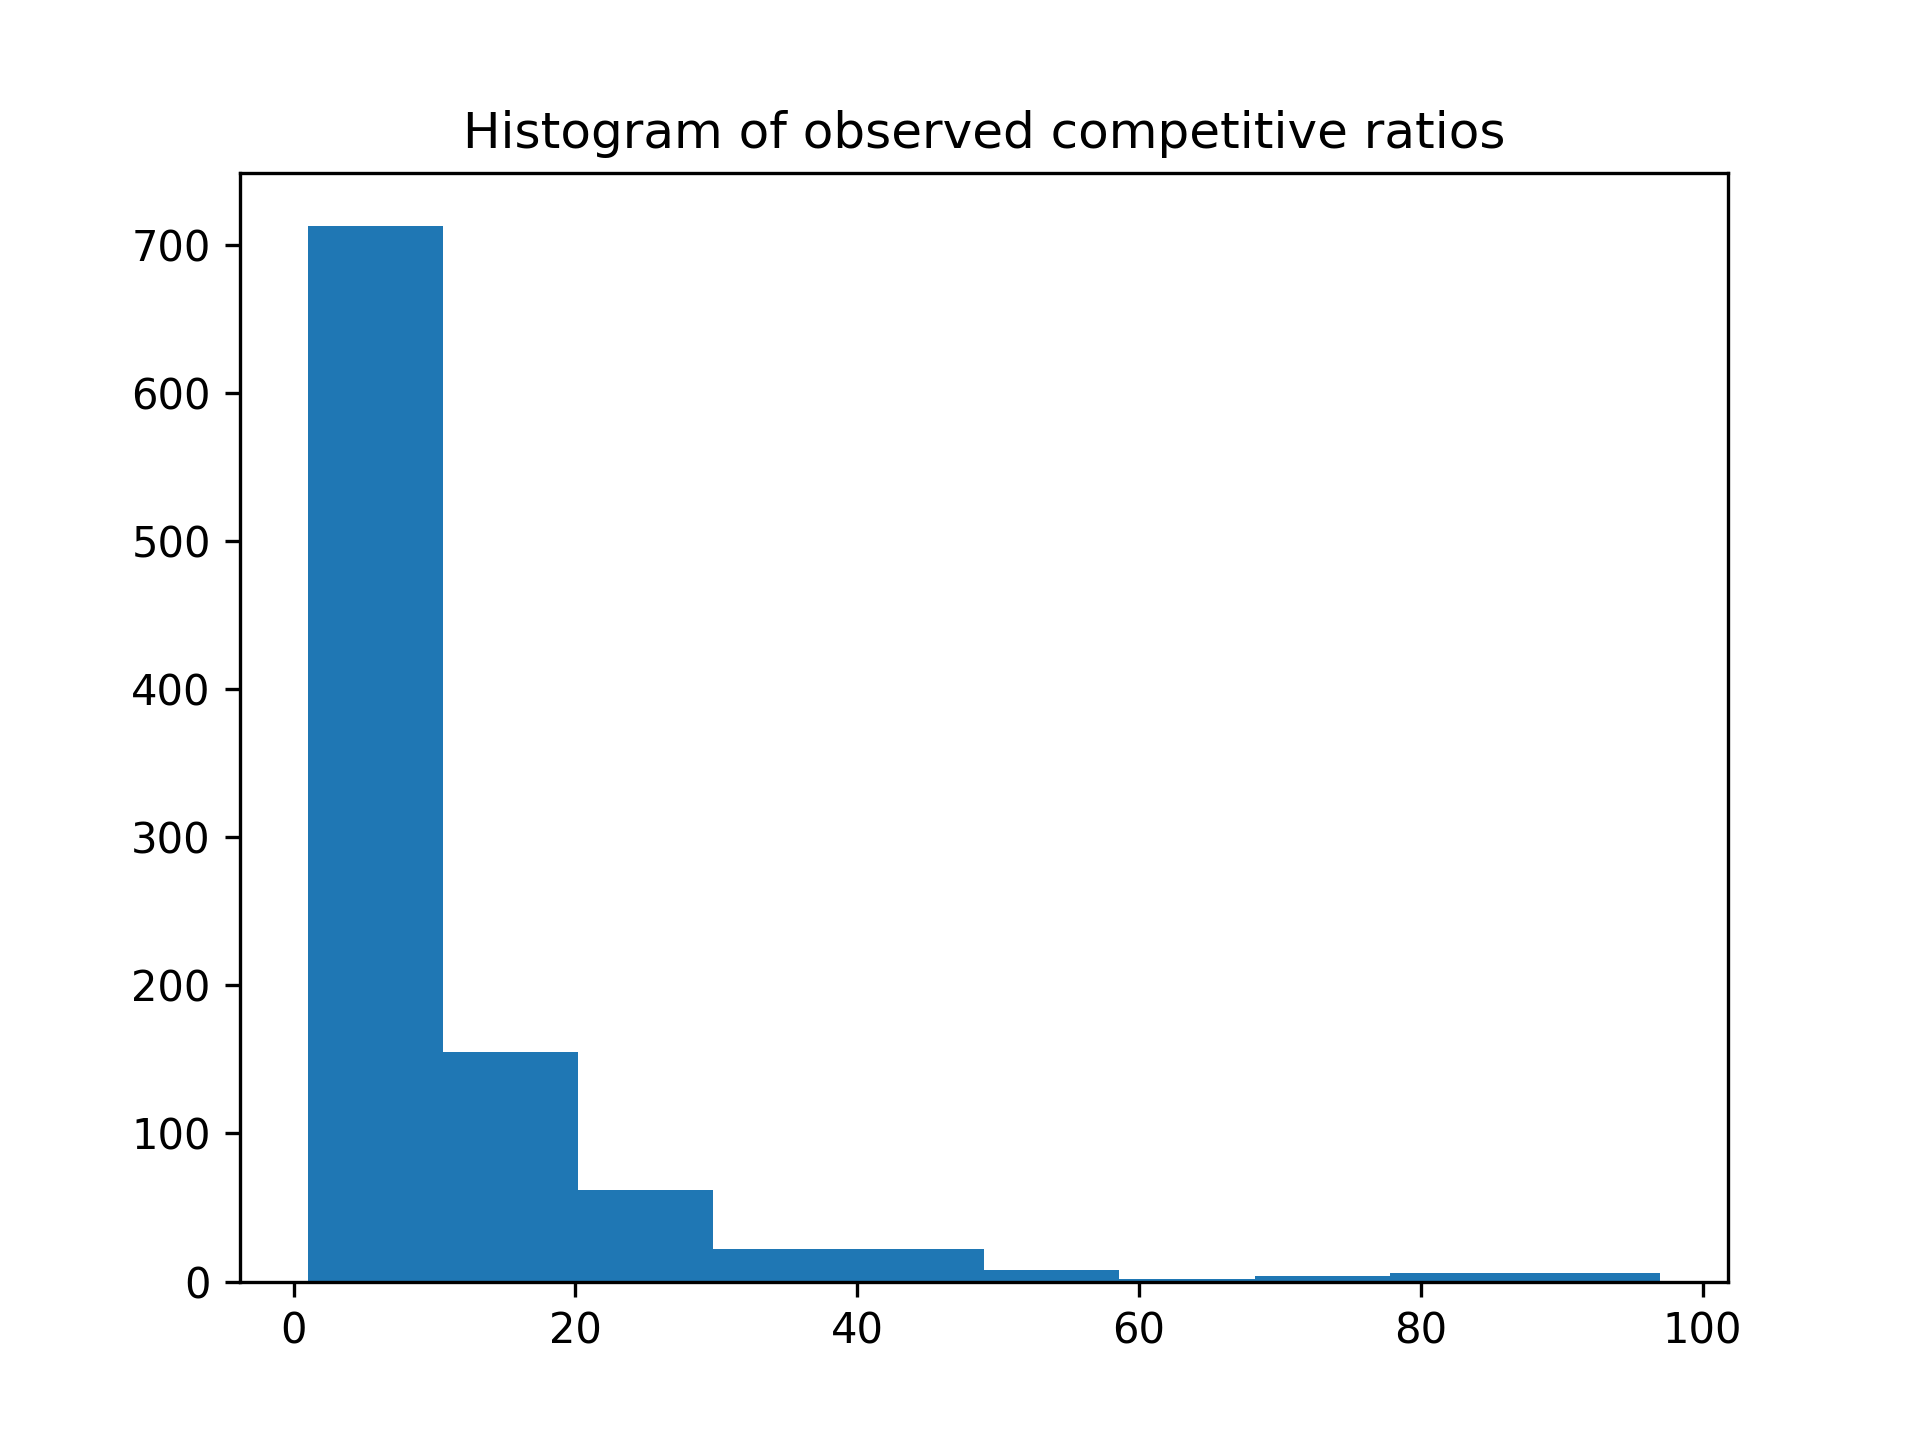
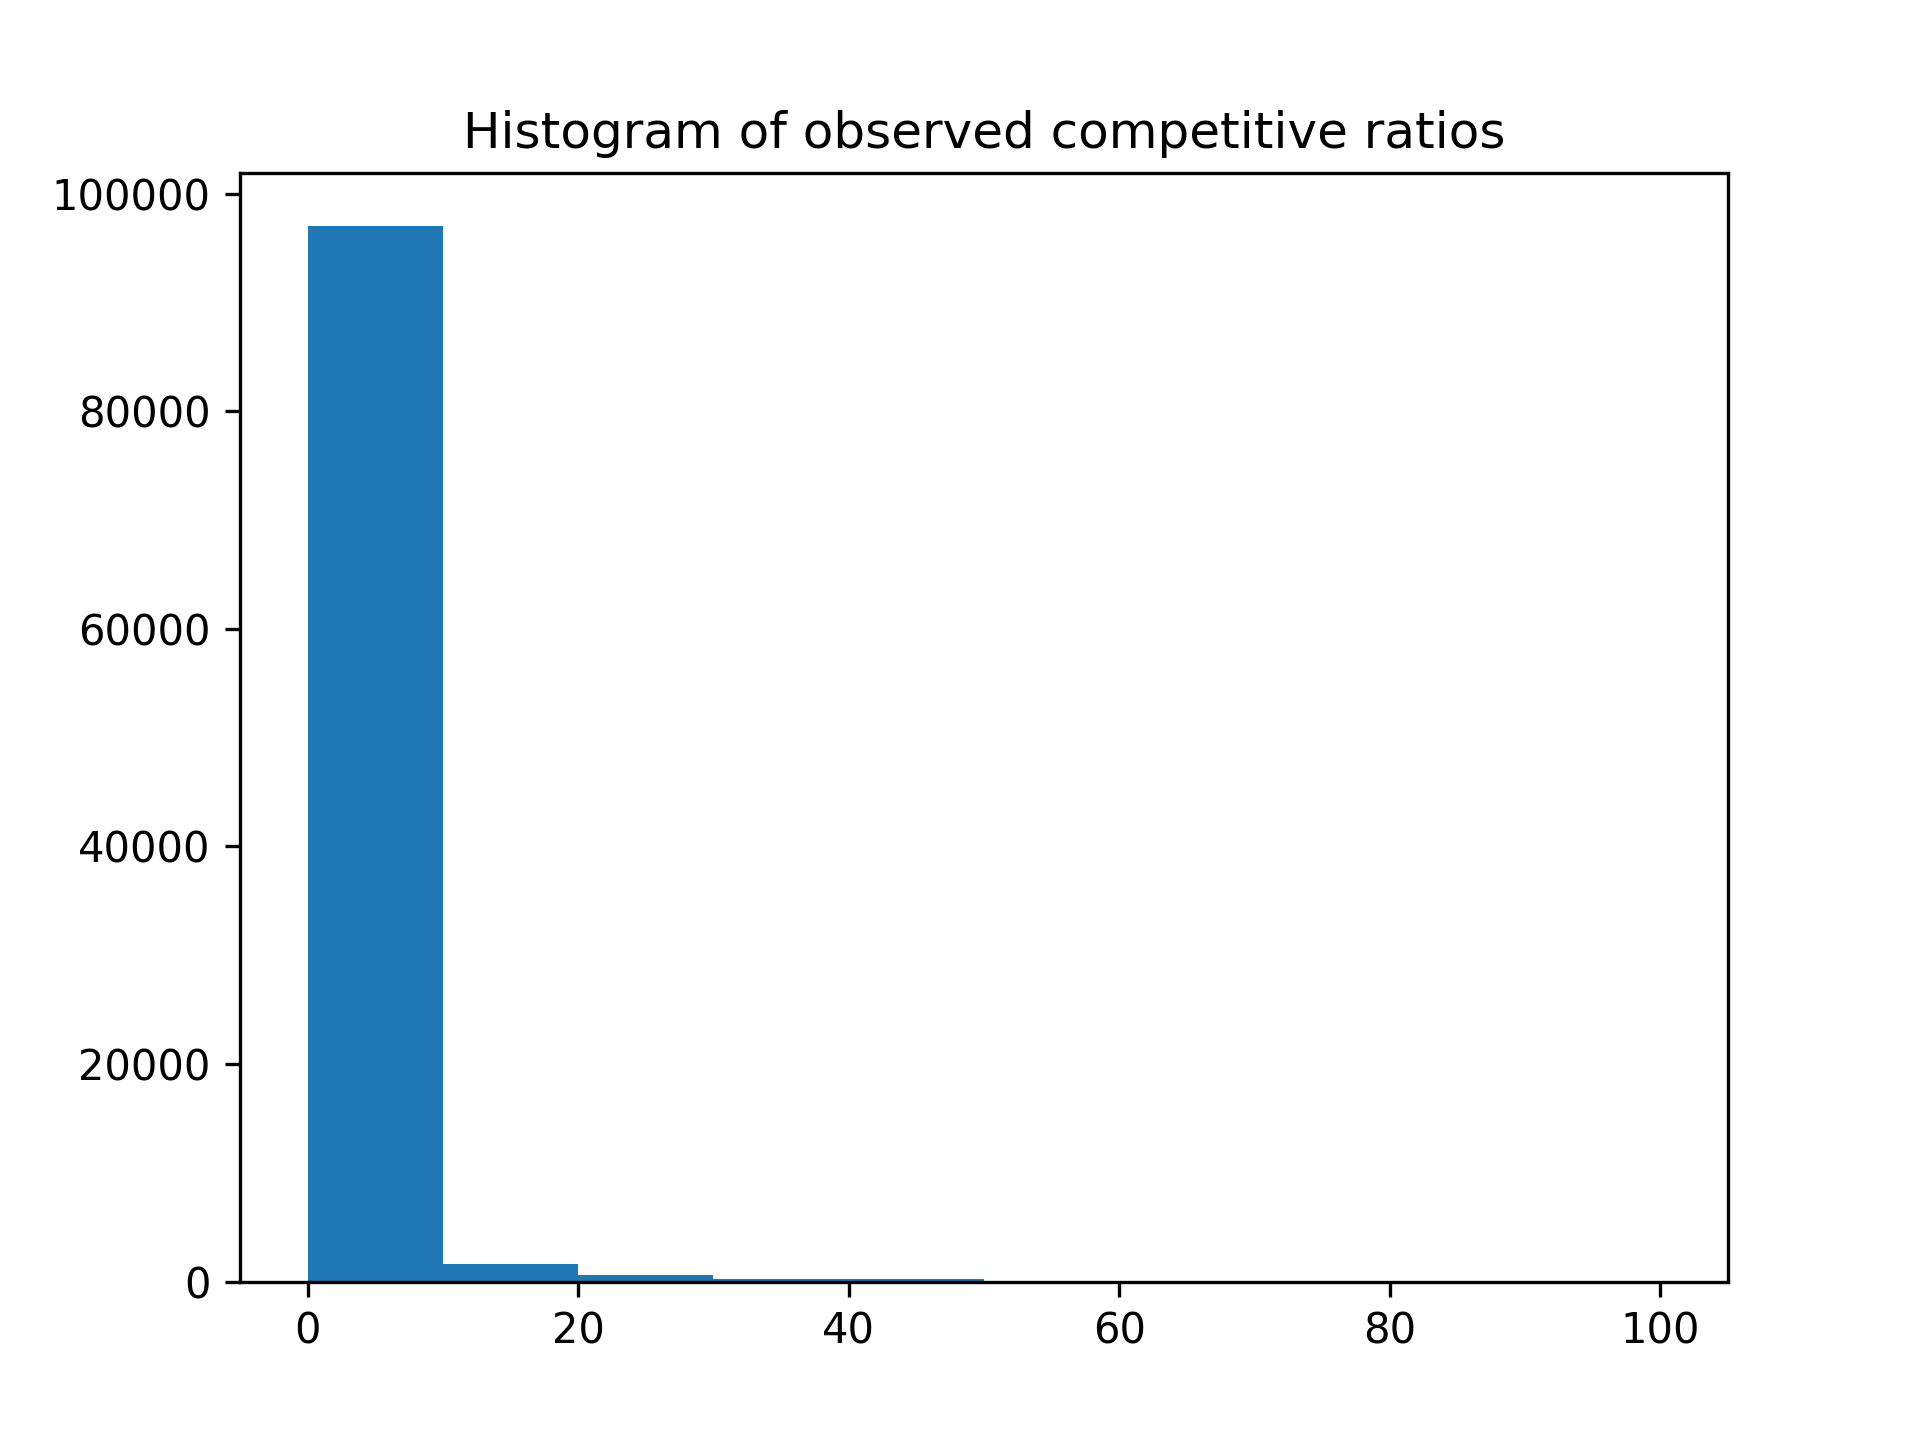
Added option that runs an algorithm until the average case is more or less than a given threshold

diff --git a/utility_functions.py b/utility_functions.py
@@ -45,8 +45,49 @@ def test_online(instances, online_algorithm):
 
         offline_decisions, offline_total_price = solve_offline(*I)
 
-        data[i] = (online_total_price / offline_total_price, online_total_price, offline_total_price)
-    
+        ratio = online_total_price / offline_total_price
+
+        data[i] = (ratio, online_total_price, offline_total_price)
+
+    return data
+
+# function that runs an online algorithm and possible tests its solution against optimal offline solution
+def test_online_until_avgcase(instances, online_algorithm, n, change_threshold):
+    '''
+    INPUT:
+        instances (list[tuples])    -   a list containing (random) test instances
+        online_algorithm    -   an object that takes as input (n,m) and has a function/object that 
+                                that can be called repeatedly in a loop
+    OUTPUT:
+        data (list[tuples])     -   list containing the relevant data (c-ratios and costs)
+    '''
+
+    data = np.zeros((len(instances),3))
+
+    ratios = []
+    average_ratio = 0
+
+    for i,I in enumerate(instances):
+        # run the online algoritm on the instance (cost is stored in 'data' variable)
+        online_decisions, online_total_price = online_algorithm.solve_instance(I)
+
+        offline_decisions, offline_total_price = solve_offline(*I)
+
+        ratio = online_total_price / offline_total_price
+        
+        ratios.append(ratio)
+        average_ratio = np.average(ratios)
+                
+        data[i] = (ratio, online_total_price, offline_total_price)
+
+        if i > n:
+            last_n = ratios[int(i-n):int(i)]
+            last_n_average_ratio = np.average(last_n)
+
+            if (abs(average_ratio - last_n_average_ratio) < change_threshold):
+                print (f"Average is {average_ratio}, last n average is {last_n_average_ratio}, difference is {abs(average_ratio - last_n_average_ratio)}, change_threhold is {change_threshold}")
+                return data
+
     return data
 
 def plot_data(data, save_location, file_name):

diff --git a/test_all.py b/test_all.py
@@ -5,19 +5,19 @@ sys.path.insert(1, os.path.dirname(os.path.dirname(__file__))) # needed to acces
 
 import numpy as np
 from algorithms.online import qThresholdOnline, RandomOnline
-from utility_functions import generate_test_instances, test_online, plot_data
+from utility_functions import generate_test_instances, test_online, plot_data, test_online_until_avgcase
 
 # use this script to automate testing multiple algorithms.
 
-number_of_test_instances = 1000
+number_of_test_instances = 100000
 
 p_min = 1
 p_max = 100
 
 instances = generate_test_instances(N=number_of_test_instances, n=1, m=10, s=1, h=0, p=(p_min, p_max))
 
-data = test_online(instances, qThresholdOnline(np.sqrt(1/p_max), p_max))
+data = test_online_until_avgcase(instances, qThresholdOnline(np.sqrt(1/p_max), p_max), number_of_test_instances / 10, 0.01)
 plot_data(data, 'figures', 'qThreshold')
 
-data = test_online(instances, RandomOnline())
+data = test_online_until_avgcase(instances, RandomOnline(), number_of_test_instances / 10, 0.01)
 plot_data(data, 'figures', 'RandomOnline')
